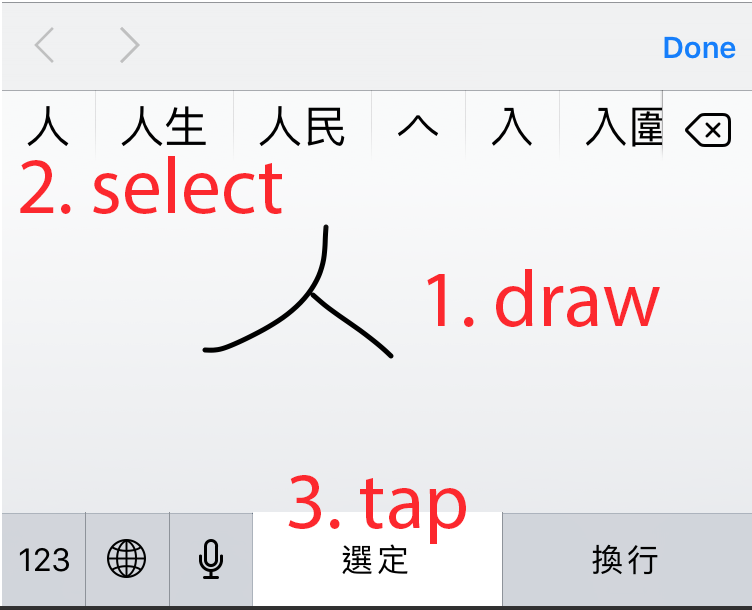
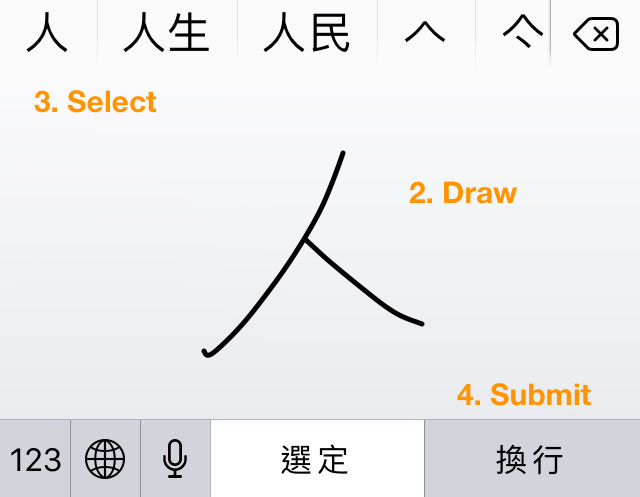
Basic error feedback and help

diff --git a/index.js b/index.js
@@ -6,7 +6,8 @@ var words = require('./hanban-300-characters.json')
 var threesvgs = require('./three-hundred-svgs.json')
 var interval
 var content = document.querySelector('.content')
-var input = document.querySelector('#write')
+var input = document.querySelector('.write')
+var form = document.querySelector('.form')
 
 window.bpmf = bpmf
 
@@ -41,6 +42,14 @@ document.querySelector('.speak').addEventListener('click', function () {
   window.speechSynthesis.speak(msg)
 })
 
+document.querySelector('.show-help').addEventListener('click', function () {
+  document.querySelector('.help').hidden = false
+})
+
+document.querySelector('.hide-help').addEventListener('click', function () {
+  document.querySelector('.help').hidden = true
+})
+
 document.querySelector('.taiwan').addEventListener('click', function () {
   alert('yep')
 })
@@ -71,13 +80,29 @@ function render (num) {
   yo.update(content, html)
   input.focus()
   clearInterval(interval)
+  input.classList.remove('error')
   interval = setInterval(function () {
     render(state.current)
   }, 7000)
 }
 
-input.addEventListener('keypress', checkInput)
-input.addEventListener('paste', checkInput)
+form.addEventListener('submit', checkInput)
+
+function checkInput (e) {
+  var val = input.value.trim()[0]
+  console.log('val', val)
+  var curchar = state.data[state.current].traditional
+  if (val === curchar) {
+    input.value = ''
+    var next = state.current + 1
+    if (state.data[next] === undefined) next = 0
+    render(next)
+  } else {
+    input.classList.add('error')
+  }
+
+  e.preventDefault()
+}
 
 function prettifybpmf (pinyin) {
   var toneClass
@@ -104,20 +129,6 @@ function prettifybpmf (pinyin) {
   })
 
   return bpmfTags
-}
-
-function checkInput () {
-  setTimeout(function () {
-    var val = input.value.trim()[0]
-    console.log('val', val)
-    var curchar = state.data[state.current].traditional
-    if (val === curchar) {
-      input.value = ''
-      var next = state.current + 1
-      if (state.data[next] === undefined) next = 0
-      render(next)
-    }
-  }, 0)
 }
 
 window.render = render

diff --git a/index.html b/index.html
@@ -10,6 +10,7 @@
       word-wrap: break-word;
       margin: 10px;
       padding: 0;
+      font-size: 14px;
       font-family: -apple-system, sans-serif;
     }
 
@@ -81,9 +82,6 @@
     }
 
     .comment { font-size: 11px; }
-    .help {
-      display: none;
-    }
 
     .clear {
       clear: both;
@@ -92,10 +90,29 @@
     .select-set {
       width: 100%;
     }
+
+    .show-help {
+      margin-right: 10px;
+    }
+
+    .help {
+      position: fixed;
+      top: 0;
+      left: 0;
+      height: 100%;
+      width: 100%;
+      overflow: scroll;
+      background: #fff;
+      padding: 10px;
+    }
+
+    .error {
+      border-color: #f55;
+    }
   </style>
 </head>
   <body>
-    <input type="text" id="write"></input>
+    <form class="form"><input type="text" class="write" autofocus></input></form>
     <div class="wrapper">
       <div class="content"></div>
       <div class="buttons">
@@ -110,11 +127,18 @@
         <button class="button taiwan" type="button">taiwan #1</button>
       </div>
     </div>
-    <div class="help">
-      <p><img src="how.png" width="25%"></img></p>
-      <p><img src="how2.png" width="25%"></img></p>
+    <div class="help" hidden>
+      <button type="button" class="hide-help">close</button>
+      <ol>
+        <li>Add keyboard "Chinese (Traditonal) – Handwriting</li>
+        <li>Draw character</li>
+        <li>Select the correct character</li>
+        <li>Tap return to submit(bottom right)</li>
+      </ol>
+      <p><img src="how.png" width="100%"></img></p>
+      <p><img src="how2.png" width="100%"></img></p>
     </div>
-    <p><a href="https://github.com/maxogden/bopomofo">view source on github</a></p>
+    <p class="clear"><button type="button" class="show-help">help</button><a href="https://github.com/maxogden/bopomofo">view source on github</a></p>
 
     <script src="bundle.js"></script>
   </body>
